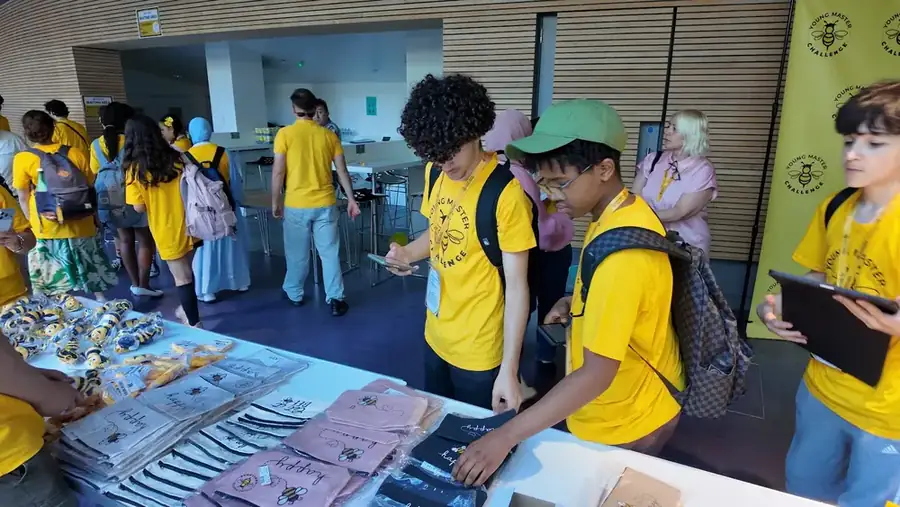
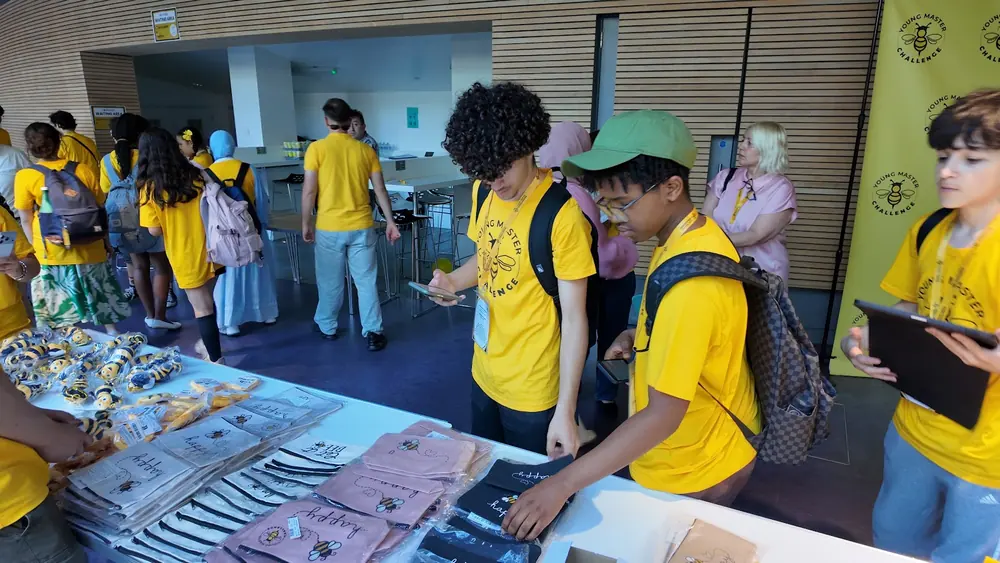
Restore the site photos the compression pass degraded
youngmaster.org/lp/* is a copy taken before commit 51fb59e ("compress the
site images"), and its assets are simply better than the ones in this
repo: the logo is 900x247 rather than 520x143, the hero 1500x844 rather
than 1280x720, and eight gallery photos 1000x563 rather than 900x507.
That pass shrank them below the widths scripts/build-assets.mjs asks for
and below the sizes the markup declares, so the reference build was
softer than the live site it is meant to be the reference for.

Pulled the better files back from the live site. london-final.webp keeps
the 1600x900 re-encode, which beats the live copy.

Every /assets/ URL now carries ?v=20260918b. The old Cache-Control said
immutable for a year, so browsers that already fetched these will not
ask again -- only a changed URL reaches them.

Changed region(s): [[0.0, 0.5917, 0.1556, 0.7101]]

diff --git a/br/index.html b/br/index.html
@@ -17,12 +17,12 @@
 <meta property="og:image" content="https://youngmaster-latam.vercel.app/assets/img/hero-group.webp">
 <meta name="twitter:card" content="summary_large_image">
 
-<link rel="icon" href="/assets/img/logo-dark.png">
+<link rel="icon" href="/assets/img/logo-dark.png?v=20260918b">
 <link rel="preconnect" href="https://fonts.googleapis.com">
 <link rel="preconnect" href="https://fonts.gstatic.com" crossorigin>
-<link rel="preload" as="image" href="/assets/img/corridor.webp" fetchpriority="high">
+<link rel="preload" as="image" href="/assets/img/corridor.webp?v=20260918b" fetchpriority="high">
 <link href="https://fonts.googleapis.com/css2?family=Poppins:wght@400;500;600;700;800&display=swap" rel="stylesheet">
-<link rel="stylesheet" href="/assets/css/site.css?v=20260918">
+<link rel="stylesheet" href="/assets/css/site.css?v=20260918b">
 
 <!-- ===================================================================
      META PIXEL — dataset da Young Master 1876285623353605.
@@ -44,7 +44,7 @@ if (YM_PIXEL_ID.indexOf('PIXEL_ID') === -1) { fbq('init', YM_PIXEL_ID); fbq('tra
 
 <header class="site-header">
   <div class="header-in">
-    <a href="#top"><img class="header-logo" src="/assets/img/logo-light.png" alt="Young Master Challenge" width="900" height="247"></a>
+    <a href="#top"><img class="header-logo" src="/assets/img/logo-light.png?v=20260918b" alt="Young Master Challenge" width="900" height="247"></a>
     <div class="header-sp"></div>
     <span class="header-note">Competição internacional · Inglês e Matemática</span>
     <a class="btn btn-primary btn-sm" href="#form-card" data-cta="header">Inscrever minha escola</a>
@@ -54,7 +54,7 @@ if (YM_PIXEL_ID.indexOf('PIXEL_ID') === -1) { fbq('init', YM_PIXEL_ID); fbq('tra
 <main id="top">
 
 <!-- ============ HERO + FORM ============ -->
-<section class="hero" style="--hero-photo:url('/assets/img/corridor.webp')">
+<section class="hero" style="--hero-photo:url('/assets/img/corridor.webp?v=20260918b')">
   <div class="hero-in">
 
     <div>
@@ -414,14 +414,14 @@ if (YM_PIXEL_ID.indexOf('PIXEL_ID') === -1) { fbq('init', YM_PIXEL_ID); fbq('tra
     </div>
 
     <div class="gallery reveal">
-      <figure><img src="/assets/img/hero-group.webp" alt="Alunos do Young Master Challenge reunidos no dia da competição" loading="lazy" width="1500" height="844"></figure>
-      <figure><img src="/assets/img/mascot-solo.webp" alt="Participante com o mascote oficial da competição" loading="lazy" width="1000" height="562"></figure>
-      <figure><img src="/assets/img/auditorium.webp" alt="Auditório lotado de participantes na final" loading="lazy" width="1200" height="675"></figure>
-      <figure><img src="/assets/img/exam-desk.webp" alt="Aluno fazendo a prova de conhecimentos" loading="lazy" width="1000" height="562"></figure>
-      <figure><img src="/assets/img/winners.webp" alt="Vencedores do Young Master Challenge com o troféu" loading="lazy" width="1000" height="562"></figure>
-      <figure><img src="/assets/img/certificates.webp" alt="Participantes comemorando com seus certificados" loading="lazy" width="1000" height="562"></figure>
-      <figure><img src="/assets/img/merch-table.webp" alt="Participantes no dia da competição" loading="lazy" width="1000" height="562"></figure>
-      <figure><img src="/assets/img/photo-frame.webp" alt="Participantes na área de fotos do evento" loading="lazy" width="1000" height="562"></figure>
+      <figure><img src="/assets/img/hero-group.webp?v=20260918b" alt="Alunos do Young Master Challenge reunidos no dia da competição" loading="lazy" width="1500" height="844"></figure>
+      <figure><img src="/assets/img/mascot-solo.webp?v=20260918b" alt="Participante com o mascote oficial da competição" loading="lazy" width="1000" height="562"></figure>
+      <figure><img src="/assets/img/auditorium.webp?v=20260918b" alt="Auditório lotado de participantes na final" loading="lazy" width="1200" height="675"></figure>
+      <figure><img src="/assets/img/exam-desk.webp?v=20260918b" alt="Aluno fazendo a prova de conhecimentos" loading="lazy" width="1000" height="562"></figure>
+      <figure><img src="/assets/img/winners.webp?v=20260918b" alt="Vencedores do Young Master Challenge com o troféu" loading="lazy" width="1000" height="562"></figure>
+      <figure><img src="/assets/img/certificates.webp?v=20260918b" alt="Participantes comemorando com seus certificados" loading="lazy" width="1000" height="562"></figure>
+      <figure><img src="/assets/img/merch-table.webp?v=20260918b" alt="Participantes no dia da competição" loading="lazy" width="1000" height="562"></figure>
+      <figure><img src="/assets/img/photo-frame.webp?v=20260918b" alt="Participantes na área de fotos do evento" loading="lazy" width="1000" height="562"></figure>
     </div>
   </div>
 </section>
@@ -448,7 +448,7 @@ if (YM_PIXEL_ID.indexOf('PIXEL_ID') === -1) { fbq('init', YM_PIXEL_ID); fbq('tra
       </p>
     </div>
     <div class="reveal">
-      <img src="/assets/img/london-final.webp?v=20260918" alt="Participantes ao lado do anúncio da Grande Final Mundial em Londres" loading="lazy" width="1600" height="900">
+      <img src="/assets/img/london-final.webp?v=20260918b" alt="Participantes ao lado do anúncio da Grande Final Mundial em Londres" loading="lazy" width="1600" height="900">
     </div>
   </div>
 </section>
@@ -540,7 +540,7 @@ if (YM_PIXEL_ID.indexOf('PIXEL_ID') === -1) { fbq('init', YM_PIXEL_ID); fbq('tra
 <footer class="site-footer">
   <div class="wrap footer-in">
     <div>
-      <img src="/assets/img/logo-light.png" alt="Young Master Challenge" width="900" height="247">
+      <img src="/assets/img/logo-light.png?v=20260918b" alt="Young Master Challenge" width="900" height="247">
       <p>Competição internacional de Inglês e Matemática para alunos de 9 a 17 anos, com rodadas online, locais e regionais, e uma Grande Final Mundial em Londres.</p>
     </div>
     <div>
@@ -582,6 +582,6 @@ window.YM_I18N = {
   sending: "Enviando…"
 };
 </script>
-<script src="/assets/js/site.js?v=20260918" defer></script>
+<script src="/assets/js/site.js?v=20260918b" defer></script>
 </body>
 </html>

diff --git a/mx/index.html b/mx/index.html
@@ -17,12 +17,12 @@
 <meta property="og:image" content="https://youngmaster-latam.vercel.app/assets/img/hero-group.webp">
 <meta name="twitter:card" content="summary_large_image">
 
-<link rel="icon" href="/assets/img/logo-dark.png">
+<link rel="icon" href="/assets/img/logo-dark.png?v=20260918b">
 <link rel="preconnect" href="https://fonts.googleapis.com">
 <link rel="preconnect" href="https://fonts.gstatic.com" crossorigin>
-<link rel="preload" as="image" href="/assets/img/hero-group.webp" fetchpriority="high">
+<link rel="preload" as="image" href="/assets/img/hero-group.webp?v=20260918b" fetchpriority="high">
 <link href="https://fonts.googleapis.com/css2?family=Poppins:wght@400;500;600;700;800&display=swap" rel="stylesheet">
-<link rel="stylesheet" href="/assets/css/site.css?v=20260918">
+<link rel="stylesheet" href="/assets/css/site.css?v=20260918b">
 
 <!-- ===================================================================
      META PIXEL — Young Master dataset 1876285623353605.
@@ -44,7 +44,7 @@ if (YM_PIXEL_ID.indexOf('PIXEL_ID') === -1) { fbq('init', YM_PIXEL_ID); fbq('tra
 
 <header class="site-header">
   <div class="header-in">
-    <a href="#top"><img class="header-logo" src="/assets/img/logo-light.png" alt="Young Master Challenge" width="900" height="247"></a>
+    <a href="#top"><img class="header-logo" src="/assets/img/logo-light.png?v=20260918b" alt="Young Master Challenge" width="900" height="247"></a>
     <div class="header-sp"></div>
     <span class="header-note">Competencia internacional · Inglés y Matemáticas</span>
     <a class="btn btn-primary btn-sm" href="#form-card" data-cta="header">Inscribir mi escuela</a>
@@ -54,7 +54,7 @@ if (YM_PIXEL_ID.indexOf('PIXEL_ID') === -1) { fbq('init', YM_PIXEL_ID); fbq('tra
 <main id="top">
 
 <!-- ============ HERO + FORM ============ -->
-<section class="hero" style="--hero-photo:url('/assets/img/hero-group.webp')">
+<section class="hero" style="--hero-photo:url('/assets/img/hero-group.webp?v=20260918b')">
   <div class="hero-in">
 
     <div>
@@ -414,14 +414,14 @@ if (YM_PIXEL_ID.indexOf('PIXEL_ID') === -1) { fbq('init', YM_PIXEL_ID); fbq('tra
     </div>
 
     <div class="gallery reveal">
-      <figure><img src="/assets/img/mascot-group.webp" alt="Alumnos del Young Master Challenge con la mascota oficial" loading="lazy" width="1000" height="562"></figure>
-      <figure><img src="/assets/img/auditorium.webp" alt="Auditorio lleno de participantes en la final" loading="lazy" width="1200" height="675"></figure>
-      <figure><img src="/assets/img/exam-desk.webp" alt="Alumno presentando la prueba de conocimientos" loading="lazy" width="1000" height="562"></figure>
-      <figure><img src="/assets/img/winners.webp" alt="Ganadores del Young Master Challenge con su trofeo" loading="lazy" width="1000" height="562"></figure>
-      <figure><img src="/assets/img/certificates.webp" alt="Participantes celebrando con sus certificados" loading="lazy" width="1000" height="562"></figure>
-      <figure><img src="/assets/img/photo-frame.webp" alt="Participantes en la zona de fotos del evento" loading="lazy" width="1000" height="562"></figure>
-      <figure><img src="/assets/img/corridor.webp" alt="Participantes durante el día de competencia" loading="lazy" width="1200" height="675"></figure>
-      <figure><img src="/assets/img/lecture.webp" alt="Ceremonia del Young Master Challenge" loading="lazy" width="1000" height="562"></figure>
+      <figure><img src="/assets/img/mascot-group.webp?v=20260918b" alt="Alumnos del Young Master Challenge con la mascota oficial" loading="lazy" width="1000" height="562"></figure>
+      <figure><img src="/assets/img/auditorium.webp?v=20260918b" alt="Auditorio lleno de participantes en la final" loading="lazy" width="1200" height="675"></figure>
+      <figure><img src="/assets/img/exam-desk.webp?v=20260918b" alt="Alumno presentando la prueba de conocimientos" loading="lazy" width="1000" height="562"></figure>
+      <figure><img src="/assets/img/winners.webp?v=20260918b" alt="Ganadores del Young Master Challenge con su trofeo" loading="lazy" width="1000" height="562"></figure>
+      <figure><img src="/assets/img/certificates.webp?v=20260918b" alt="Participantes celebrando con sus certificados" loading="lazy" width="1000" height="562"></figure>
+      <figure><img src="/assets/img/photo-frame.webp?v=20260918b" alt="Participantes en la zona de fotos del evento" loading="lazy" width="1000" height="562"></figure>
+      <figure><img src="/assets/img/corridor.webp?v=20260918b" alt="Participantes durante el día de competencia" loading="lazy" width="1200" height="675"></figure>
+      <figure><img src="/assets/img/lecture.webp?v=20260918b" alt="Ceremonia del Young Master Challenge" loading="lazy" width="1000" height="562"></figure>
     </div>
   </div>
 </section>
@@ -448,7 +448,7 @@ if (YM_PIXEL_ID.indexOf('PIXEL_ID') === -1) { fbq('init', YM_PIXEL_ID); fbq('tra
       </p>
     </div>
     <div class="reveal">
-      <img src="/assets/img/london-final.webp?v=20260918" alt="Participantes junto al anuncio de la Gran Final Mundial en Londres" loading="lazy" width="1600" height="900">
+      <img src="/assets/img/london-final.webp?v=20260918b" alt="Participantes junto al anuncio de la Gran Final Mundial en Londres" loading="lazy" width="1600" height="900">
     </div>
   </div>
 </section>
@@ -540,7 +540,7 @@ if (YM_PIXEL_ID.indexOf('PIXEL_ID') === -1) { fbq('init', YM_PIXEL_ID); fbq('tra
 <footer class="site-footer">
   <div class="wrap footer-in">
     <div>
-      <img src="/assets/img/logo-light.png" alt="Young Master Challenge" width="900" height="247">
+      <img src="/assets/img/logo-light.png?v=20260918b" alt="Young Master Challenge" width="900" height="247">
       <p>Competencia internacional de Inglés y Matemáticas para alumnos de 9 a 17 años, con rondas en línea, locales y regionales, y una Gran Final Mundial en Londres.</p>
     </div>
     <div>
@@ -582,6 +582,6 @@ window.YM_I18N = {
   sending: "Enviando…"
 };
 </script>
-<script src="/assets/js/site.js?v=20260918" defer></script>
+<script src="/assets/js/site.js?v=20260918b" defer></script>
 </body>
 </html>
